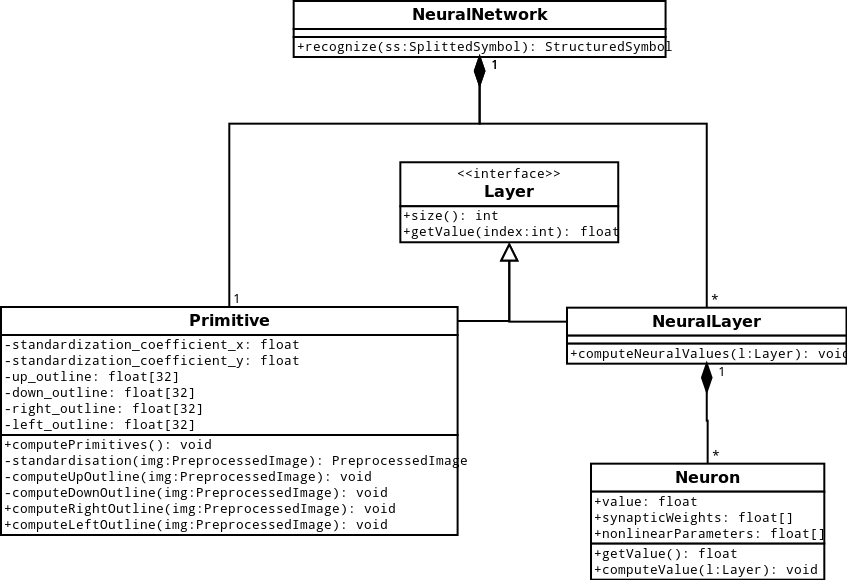
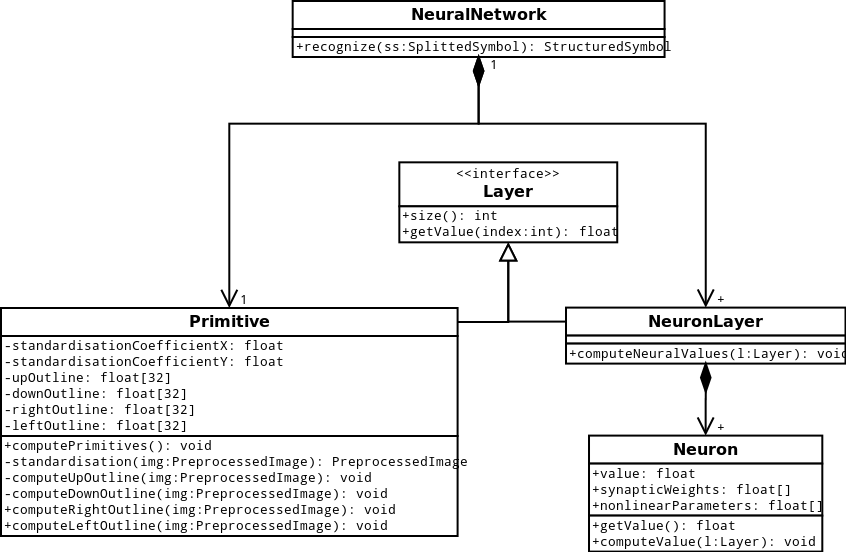
added GeneTeX/TemplateCodingStyle.txt for coding style examples.

Changed region(s): [[0.0, 0.2772, 1.0, 1.0], [0.2459, 0.0, 0.8605, 0.2464]]

diff --git a/GeneTeX/src/analysis/recognition/neuralnetwork/Layer.java b/GeneTeX/src/analysis/recognition/neuralnetwork/Layer.java
@@ -1,19 +1,32 @@
 package analysis.recognition.neuralnetwork;
 
+/**
+ * The neural network is composed of layer. Each layer contains some elements.
+ * 
+ * @author Marceau Thalgott 
+ * @author Mehdi Bouksara
+ * @author Théo Merle
+ */
 public interface Layer {
-	
-	/* ************************************************************************
-     *                              ATTRIBUTES                                * 
-     ************************************************************************ */
-    
-    /* ************************************************************************
-     *                              CONSTRUCTORS                              * 
-     ************************************************************************ */
-    
+	    
     /* ************************************************************************
      *                              METHODS                                   * 
      ************************************************************************ */
-    
+	
+	/**
+	 * Return the size of the layer
+	 * @return number of elements contained in the layer
+	 */
+	public int size();
+
+	/**
+	 * Return the value of the element of index index. If no element
+	 * corresponds to index, it returns 0.
+	 * @param index an integer corresponding to an element.
+	 * @return      value of the selected element (0 by default).
+	 */
+	public float getValue(int index);
+	
     /* ************************************************************************
      *                          PRIVATE FUNCTIONS                             * 
      ************************************************************************ */
@@ -21,6 +34,6 @@ public interface Layer {
     /* ************************************************************************
      *                              ACCESSORS                                 * 
      ************************************************************************ */
-
+	
 
 }

diff --git a/GeneTeX/src/analysis/recognition/neuralnetwork/NeuronLayer.java b/GeneTeX/src/analysis/recognition/neuralnetwork/NeuronLayer.java
@@ -1,6 +1,8 @@
 package analysis.recognition.neuralnetwork;
 
 public class NeuronLayer implements Layer {
+
+
 	
 	/* ************************************************************************
      *                              ATTRIBUTES                                * 
@@ -13,10 +15,36 @@ public class NeuronLayer implements Layer {
     /* ************************************************************************
      *                              METHODS                                   * 
      ************************************************************************ */
-    
-    /* ************************************************************************
+
+	/**
+	 * Return the size of the NeuronLayer
+	 * @return number of neurons contained in the layer
+	 */
+	public int size() {
+		// TODO Auto-generated method stub
+		return 0;
+	}
+
+	/**
+	 * Return the value of the index-th neuron computed. If no element
+	 * corresponds to index, it returns 0.
+	 * @param index an integer corresponding to an element.
+	 * @return      value of the selected element (0 by default).
+	 */
+	public float getValue(int index) {
+		// TODO Auto-generated method stub
+		return 0;
+	}
+
+
+	public void computeNeuralValues(Layer l){
+		
+	}
+
+	/* ************************************************************************
      *                          PRIVATE FUNCTIONS                             * 
      ************************************************************************ */
+
     
     /* ************************************************************************
      *                              ACCESSORS                                 * 

diff --git a/GeneTeX/src/analysis/recognition/neuralnetwork/Primitive.java b/GeneTeX/src/analysis/recognition/neuralnetwork/Primitive.java
@@ -14,7 +14,36 @@ public class Primitive implements Layer {
      *                              METHODS                                   * 
      ************************************************************************ */
     
-    /* ************************************************************************
+	/**
+	 * Return the number of primitives
+	 * @return number of primitives contained in the layer
+	 */
+	public int size() {
+		// TODO Auto-generated method stub
+		return 0;
+	}
+
+	/**
+	 * Return the value of the index-th primitive computed. If no primitive
+	 * corresponds to index, it returns 0.
+	 * <ul>
+	 * <li> index = 0 corresponds to standardisationCoefficientX
+	 * <li> index = 1 corresponds to standardisationCoefficientY
+	 * <li> index = 2..33 corresponds to upOutline
+	 * <li> index = 34..65 corresponds to downOutline
+	 * <li> index = 66..97 corresponds to rightOutline
+	 * <li> index = 98..129 corresponds to leftOutline
+	 * </ul>
+	 *
+	 * @param index an integer corresponding to a primitive.
+	 * @return      value of the selected primitive (0 by default).
+	 */
+	public float getValue(int index) {
+		// TODO Auto-generated method stub
+		return 0;
+	}
+
+	/* ************************************************************************
      *                          PRIVATE FUNCTIONS                             * 
      ************************************************************************ */
     
